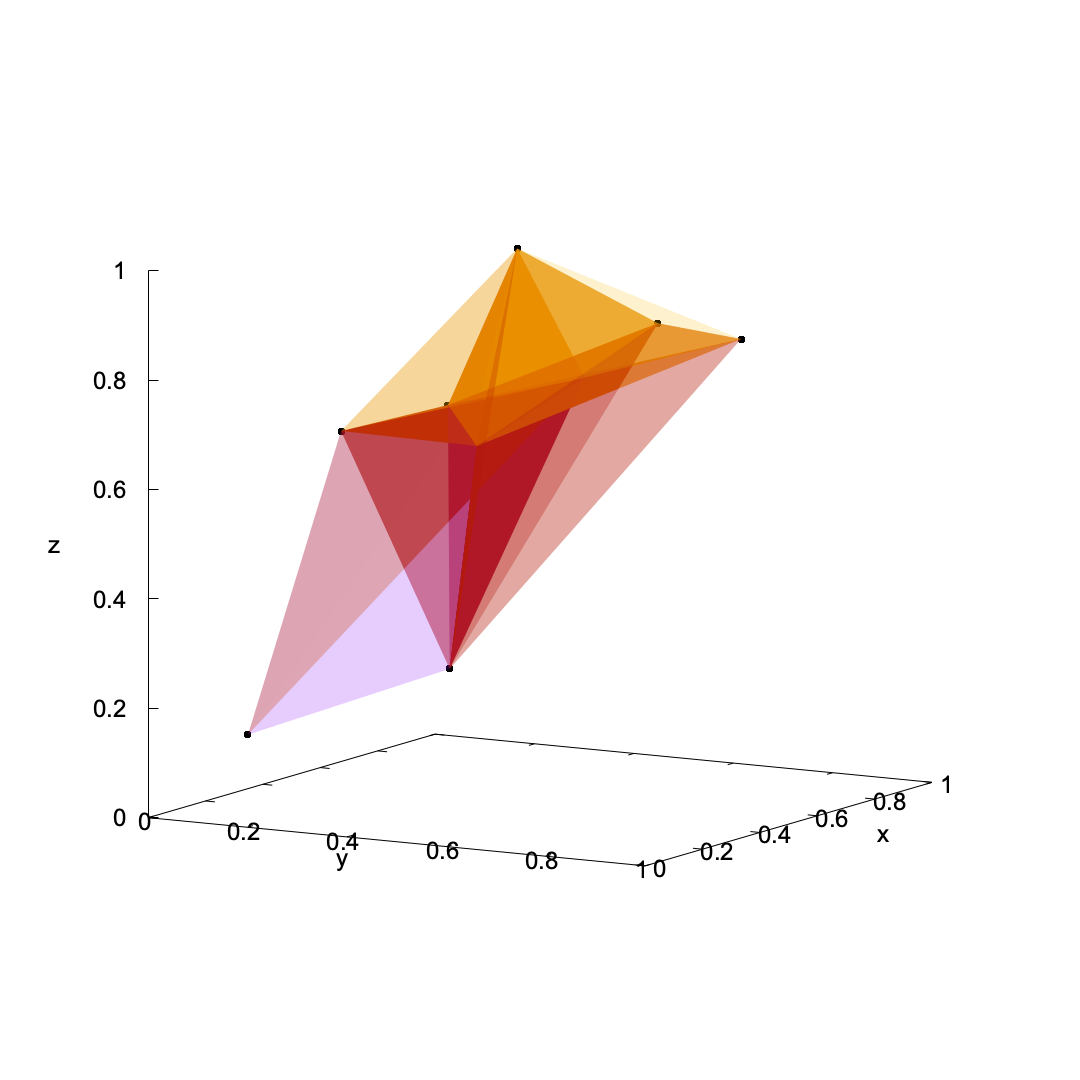
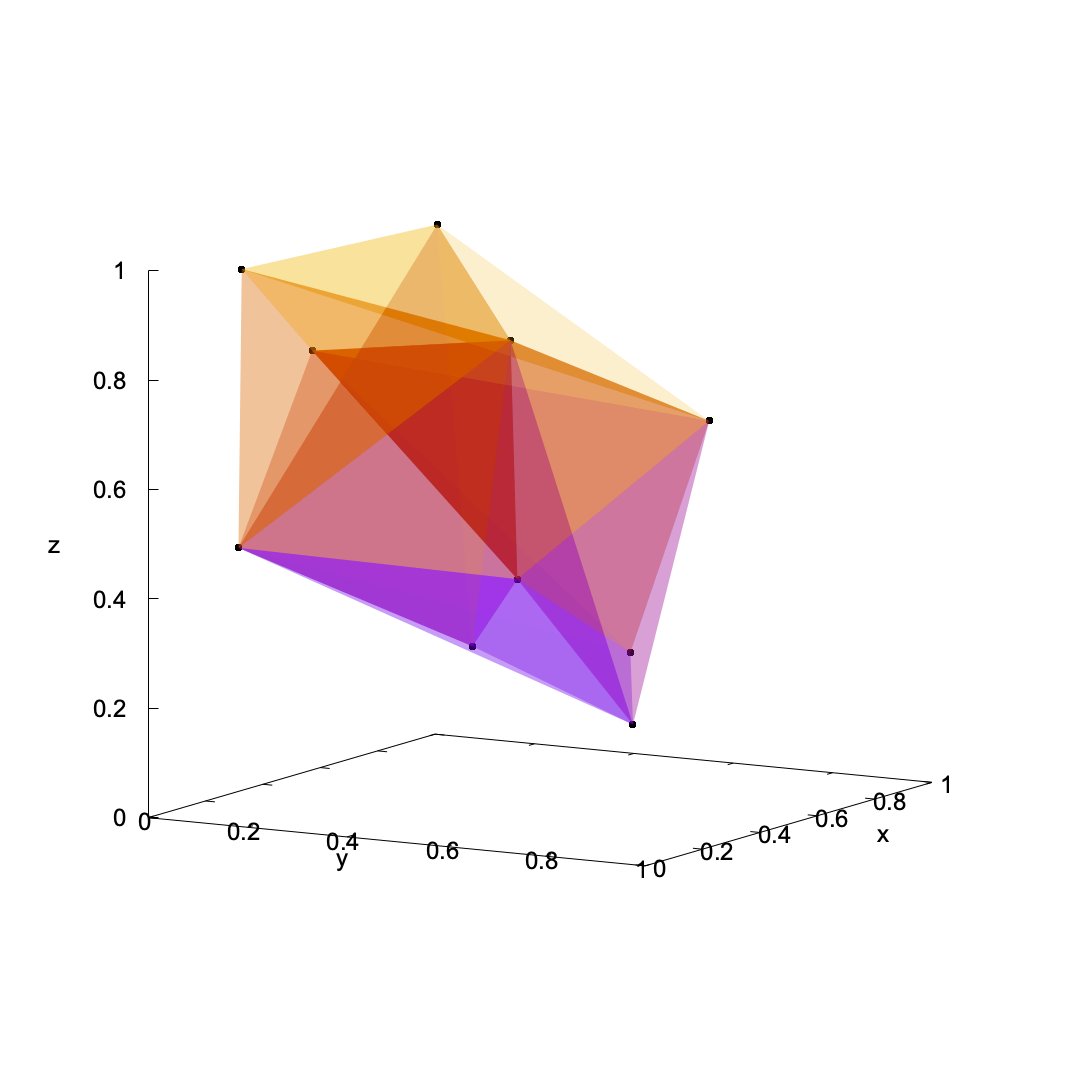
before updating simplical complex to polyhedral complex

Changed region(s): [[0.2139, 0.2139, 0.7028, 0.7028]]

diff --git a/vd_3d.c b/vd_3d.c
@@ -1,0 +1,38 @@
+
+#include "simplical_complex.c"
+
+typedef struct poly {
+    int Nv;
+    int *vertex_id;
+    struct poly **opposite;
+    struct poly *next;  // Linked list of cells
+    struct poly *prev;
+    int mark;  // Used to mark particular ncells
+} s_poly;
+
+
+s_poly *malloc_poly(const s_setup *setup, int N_vertices)
+{
+    s_poly *out = malloc(sizeof(s_poly));
+    out->Nv = N_vertices;
+    out->vertex_id = malloc(sizeof(int) * N_vertices);
+    out->opposite = malloc(sizeof(s_poly*) * N_vertices);
+    out->next = NULL;
+    out->prev = NULL;
+    out->mark = 0;
+    return out;
+}
+
+
+void extract_vertex(const s_setup *setup, const s_ncell *ncell, double *out)
+{
+    static double **vertices_ncell = NULL;
+    if (!vertices_ncell) vertices_ncell = malloc_matrix(4, 3);
+    
+    extract_vertices_ncell(setup, ncell, vertices_ncell);
+
+    find_center_mass(vertices_ncell, 4, 3, out);
+}
+
+
+void extract_polyhedron

diff --git a/simplical_complex.c b/simplical_complex.c
@@ -24,7 +24,7 @@ typedef struct ncell {
     struct ncell **opposite;
     struct ncell *next;  // Linked list of cells
     struct ncell *prev;
-    int mark;  // Used in flood-fill algorithms, i.e. to find the star of an (n-3)-cell.
+    int mark;  // Used to mark particular ncells
 } s_ncell;
 
 
@@ -234,24 +234,6 @@ void mark_ncells_incident_face(const s_setup *setup, s_ncell *ncell, const int *
     
     // Recursion:
     mark_ncells_incident_face_STEP(setup, ncell, v_localid, dim_face);
-}
-
-
-void find_center_mass(double **in, int N_points, int dim, double *out)
-{
-    for (int ii=0; ii<dim; ii++) {
-        out[ii] = in[0][ii];
-    }
-
-    for (int ii=1; ii<N_points; ii++) {
-        for (int jj=0; jj<dim; jj++) {
-            out[jj] += in[ii][jj];
-        }
-    }
-
-    for (int ii=0; ii<dim; ii++) {
-        out[ii] /= N_points;
-    }
 }
 
 

diff --git a/geometry.c b/geometry.c
@@ -124,6 +124,24 @@ int are_in_general_position_3d(double **points, int N)
 }
 
 
+void find_center_mass(double **in, int N_points, int dim, double *out)
+{
+    for (int ii=0; ii<dim; ii++) {
+        out[ii] = in[0][ii];
+    }
+
+    for (int ii=1; ii<N_points; ii++) {
+        for (int jj=0; jj<dim; jj++) {
+            out[jj] += in[ii][jj];
+        }
+    }
+
+    for (int ii=0; ii<dim; ii++) {
+        out[ii] /= N_points;
+    }
+}
+
+
 // ----------------------------------------------------------------------------------------------
 // ----------------------------------------- OLD ------------------------------------------------
 // ----------------------------------------------------------------------------------------------

diff --git a/dt_3d_incremental.c b/dt_3d_incremental.c
@@ -669,8 +669,6 @@ s_setup *construct_dt_3d(double **points, int N_points)
     s_stack *stack = stack_create();
     s_setup *setup = initialize_setup(points, N_points, 3);
 
-    printf("N_POINTS: %d\n", setup->N_points);
-    print_ncells(setup);
     assert(is_delaunay_3d(setup) == 1 && "Setup is not delaunay");  // DEBUG
                                                                  
     for (int ii=0; ii<N_points; ii++) {
